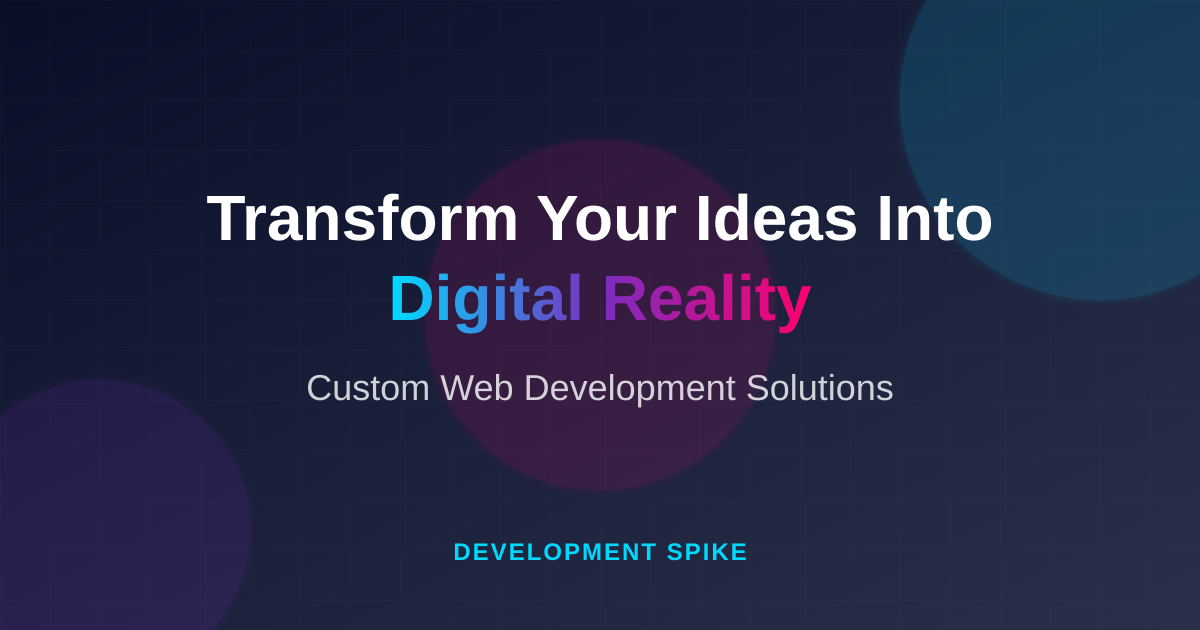
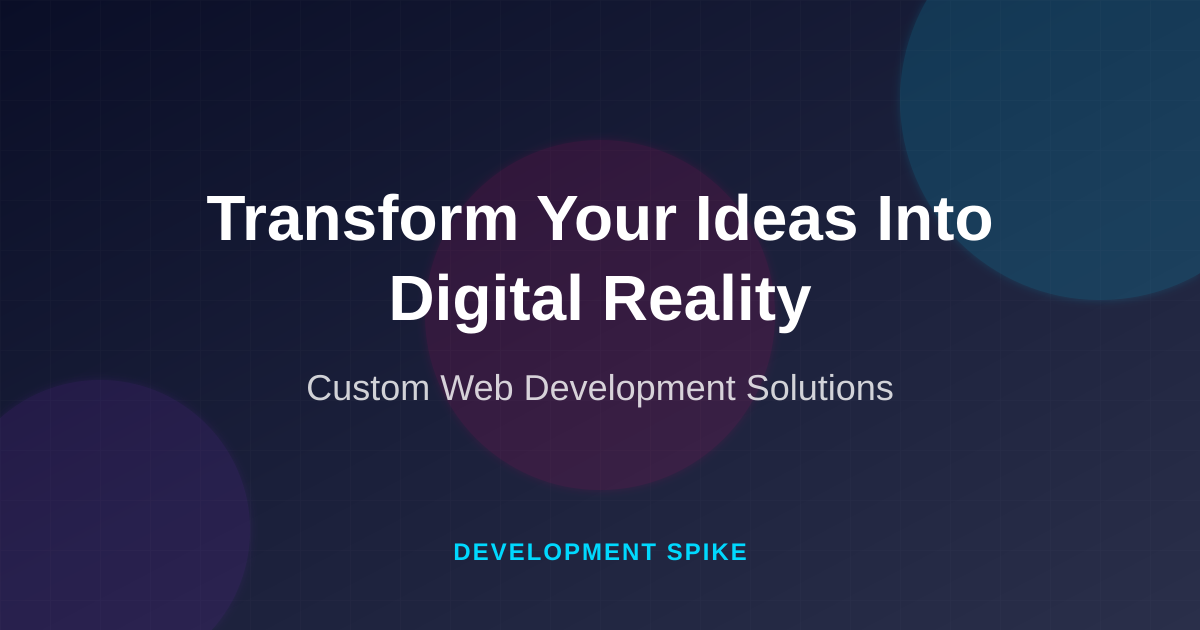
image adjustments

Changed region(s): [[0.3083, 0.4222, 0.6783, 0.5429]]

diff --git a/nuxt.config.ts b/nuxt.config.ts
@@ -21,9 +21,9 @@ export default defineNuxtConfig({
         { property: 'og:url', content: 'https://developmentspike.co.za/' },
         { property: 'og:title', content: 'Transform Your Ideas Into Digital Reality - Development Spike' },
         { property: 'og:description', content: 'Custom Web Development Solutions. Professional web services from simple websites to complex applications that power your business.' },
-        { property: 'og:image', content: 'https://developmentspike.co.za/og-image.png?v=20251228' },
-        { property: 'og:image:secure_url', content: 'https://developmentspike.co.za/og-image.png?v=20251228' },
-        { property: 'og:image:url', content: 'https://developmentspike.co.za/og-image.png?v=20251228' },
+        { property: 'og:image', content: 'https://developmentspike.co.za/og-image.png?v=20251228b' },
+        { property: 'og:image:secure_url', content: 'https://developmentspike.co.za/og-image.png?v=20251228b' },
+        { property: 'og:image:url', content: 'https://developmentspike.co.za/og-image.png?v=20251228b' },
         { property: 'og:image:width', content: '1200' },
         { property: 'og:image:height', content: '630' },
         { property: 'og:image:alt', content: 'Transform Your Ideas Into Digital Reality - Custom Web Development Solutions' },
@@ -37,7 +37,7 @@ export default defineNuxtConfig({
         { name: 'twitter:url', content: 'https://developmentspike.co.za' },
         { name: 'twitter:title', content: 'Custom Web Development Solutions | Transform Your Ideas Into Digital Reality' },
         { name: 'twitter:description', content: 'Professional custom web development services. From simple websites to complex applications - I build digital solutions that power your business.' },
-        { name: 'twitter:image', content: 'https://developmentspike.co.za/og-image.png?v=20251228' },
+        { name: 'twitter:image', content: 'https://developmentspike.co.za/og-image.png?v=20251228b' },
         { name: 'twitter:image:alt', content: 'Custom Web Development Solutions' },
         
         // Additional SEO

diff --git a/app/pages/index.vue b/app/pages/index.vue
@@ -425,8 +425,8 @@ useSeoMeta({
   description: 'Professional custom web development services. From simple websites to complex applications - I build digital solutions that power your business.',
   ogTitle: 'Custom Web Development Solutions | Transform Your Ideas Into Digital Reality',
   ogDescription: 'Professional custom web development services. From simple websites to complex applications - I build digital solutions that power your business.',
-  ogImage: 'https://developmentspike.co.za/og-image.png?v=20251228',
-  ogImageSecureUrl: 'https://developmentspike.co.za/og-image.png?v=20251228',
+  ogImage: 'https://developmentspike.co.za/og-image.png?v=20251228b',
+  ogImageSecureUrl: 'https://developmentspike.co.za/og-image.png?v=20251228b',
   ogImageWidth: '1200',
   ogImageHeight: '630',
   ogImageAlt: 'Custom Web Development Solutions',
@@ -438,7 +438,7 @@ useSeoMeta({
   twitterCard: 'summary_large_image',
   twitterTitle: 'Custom Web Development Solutions | Transform Your Ideas Into Digital Reality',
   twitterDescription: 'Professional custom web development services. From simple websites to complex applications - I build digital solutions that power your business.',
-  twitterImage: 'https://developmentspike.co.za/og-image.png?v=20251228',
+  twitterImage: 'https://developmentspike.co.za/og-image.png?v=20251228b',
   twitterImageAlt: 'Custom Web Development Solutions',
 })
 
